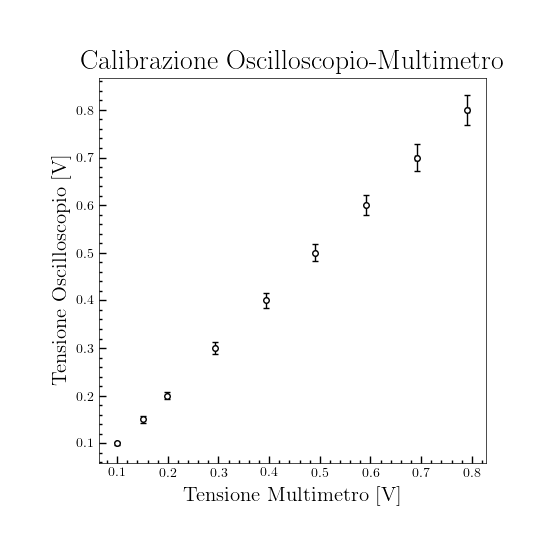
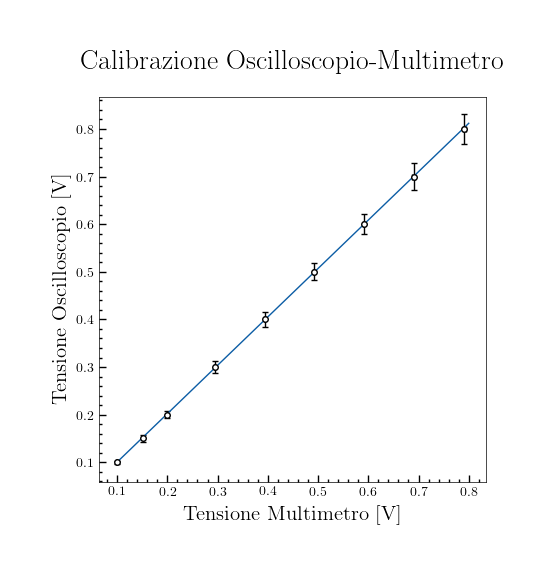
default

diff --git a/prima_prova/germanio/germanio_fit.py b/prima_prova/germanio/germanio_fit.py
@@ -1,38 +1,35 @@
 import numpy
+from scipy.optimize import curve_fit
 from linearfit import linearfit as lf
-from math import exp,sqrt
+from math import exp,sqrt,log
 from matplotlib import pyplot
 from dati import V, e_V, I, e_I
 
-#seaborn.set()
+def my_function(x,a,b):
+    return a*numpy.exp(x/b-1)
 
 for i in range(0,15):
     e_V[i]=sqrt(e_V[i]**2+(0.03*V[i])**2)*1000
     V[i]*=1000
-
+  
 pyplot.style.use('my_style')
-#print(e_V)
 
-pyplot.errorbar(V, I, e_I, e_V, fmt='ok', label = 'dati')
-pyplot.yscale('log')
+pyplot.errorbar(V, I, e_I, e_V, fmt='ok')
+pyplot.yscale('linear')
 pyplot.xlabel('Tensione [mV]')
 pyplot.ylabel('Corrente [mA]')
 pyplot.title('Caratteristica I-V del diodo al Germanio')
+#pyplot.legend()
 
-a,b,da,db=lf(numpy.log(I),V,e_V)
+popt, _ = curve_fit(my_function, V, I, p0=(0,40))
+a, b = popt
 
-print("a = ",a)
-print("da = ",da)
-print("b = ",b)
-print("db = ",db)
+print(a,b)
 
-I0=exp(-a/b)
-print('I0 = ',I0)
-
+vexp=numpy.vectorize(exp)
 x=numpy.linspace(400,710,100)
-pyplot.plot(x,I0*numpy.exp(x/b-1), label = 'fit') 
+pyplot.plot(x,my_function(x,a,b)) 
 
 # Dato che V = -clnI0+clnI abbiamo che V=cln(I/I0), I/I0 = e^(V/c-1)
 
-pyplot.legend()
-pyplot.savefig('grafico_germanio.png')
+pyplot.savefig('germanio.png')

diff --git a/prima_prova/silicio/silicio_fit.py b/prima_prova/silicio/silicio_fit.py
@@ -1,8 +1,12 @@
 import numpy
+from scipy.optimize import curve_fit
 from linearfit import linearfit as lf
 from math import exp,sqrt,log
 from matplotlib import pyplot
 from dati import V, e_V, I, e_I
+
+def my_function(x,a,b):
+    return a*numpy.exp(x/b-1)
 
 for i in range(0,14):
     e_V[i]=sqrt(e_V[i]**2+(0.03*V[i])**2)*1000
@@ -10,26 +14,22 @@ for i in range(0,14):
   
 pyplot.style.use('my_style')
 
-pyplot.errorbar(V, I, e_I, e_V, fmt='ok',label = 'dati')
+pyplot.errorbar(V, I, e_I, e_V, fmt='ok')
 pyplot.yscale('log')
 pyplot.xlabel('Tensione [mV]')
 pyplot.ylabel('Corrente [mA]')
 pyplot.title('Caratteristica I-V del diodo al Silicio')
+#pyplot.legend()
 
-a,b,da,db=lf(numpy.log(I),V,e_V)
+popt, _ = curve_fit(my_function, V, I, p0=(0,40))
+a, b = popt
 
-print("a = ",a)
-print("da = ",da)
-print("b = ",b)
-print("db = ",db)
+print(a,b)
 
-I0=exp(-a/b)
-print('I0 = ',I0)
-
+vexp=numpy.vectorize(exp)
 x=numpy.linspace(50,350,100)
-pyplot.plot(x,I0*numpy.exp(x/b-1),label = 'fit') 
+pyplot.plot(x,my_function(x,a,b)) 
 
 # Dato che V = -clnI0+clnI abbiamo che V=cln(I/I0), I/I0 = e^(V/c-1)
 
-pyplot.legend()
-pyplot.savefig('grafico_silicio.png')
+pyplot.savefig('silicio.png')

diff --git a/prima_prova/germanio/dati.py b/prima_prova/germanio/dati.py
@@ -1,4 +1,6 @@
-V = [0.4, 0.5, 0.54, 0.56, 0.58, 0.59, 0.6, 0.61, 0.62, 0.64, 0.65, 0.66, 0.67, 0.68, 0.7]
-e_V = [0.01, 0.01, 0.01, 0.01, 0.01, 0.01, 0.01, 0.01, 0.01, 0.01, 0.01, 0.01, 0.01, 0.01, 0.01]
-I = [0.01, 0.06, 0.12, 0.2, 0.25, 0.33, 0.42, 0.5, 0.6, 0.92, 1.06, 1.27, 1.55, 1.88, 2.65]
-e_I = [0.0004, 0.0009, 0.003, 0.005, 0.006, 0.006, 0.007, 0.008, 0.009, 0.01, 0.03, 0.03, 0.05, 0.05, 0.06]
+import numpy
+
+V = numpy.array([0.4, 0.5, 0.54, 0.56, 0.58, 0.59, 0.6, 0.61, 0.62, 0.64, 0.65, 0.66, 0.67, 0.68, 0.7])
+e_V = numpy.array([0.01, 0.01, 0.01, 0.01, 0.01, 0.01, 0.01, 0.01, 0.01, 0.01, 0.01, 0.01, 0.01, 0.01, 0.01])
+I = numpy.array([0.01, 0.06, 0.12, 0.2, 0.25, 0.33, 0.42, 0.5, 0.6, 0.92, 1.06, 1.27, 1.55, 1.88, 2.65])
+e_I = numpy.array([0.0004, 0.0009, 0.003, 0.005, 0.006, 0.006, 0.007, 0.008, 0.009, 0.01, 0.03, 0.03, 0.05, 0.05, 0.06])

diff --git a/prima_prova/silicio/dati.py b/prima_prova/silicio/dati.py
@@ -1,4 +1,6 @@
-V = [0.08, 0.1, 0.12, 0.14, 0.16, 0.18, 0.2, 0.24, 0.26, 0.28, 0.29, 0.3, 0.31, 0.32]
-e_V = [0.01, 0.01, 0.01, 0.01, 0.01, 0.01, 0.01, 0.01, 0.01, 0.01, 0.01, 0.01, 0.01, 0.01]
-I = [0.01, 0.02, 0.04, 0.07, 0.1, 0.16, 0.24, 0.53, 0.73, 1.07, 1.26, 1.48, 1.74, 2.03]
-e_I = [0.0004, 0.0005, 0.0007, 0.001, 0.004, 0.005, 0.005, 0.008, 0.01, 0.04, 0.04, 0.04, 0.05, 0.05]
+import numpy
+
+V = numpy.array([0.08, 0.1, 0.12, 0.14, 0.16, 0.18, 0.2, 0.24, 0.26, 0.28, 0.29, 0.3, 0.31, 0.32])
+e_V = numpy.array([0.01, 0.01, 0.01, 0.01, 0.01, 0.01, 0.01, 0.01, 0.01, 0.01, 0.01, 0.01, 0.01, 0.01])
+I = numpy.array([0.01, 0.02, 0.04, 0.07, 0.1, 0.16, 0.24, 0.53, 0.73, 1.07, 1.26, 1.48, 1.74, 2.03])
+e_I = numpy.array([0.0004, 0.0005, 0.0007, 0.001, 0.004, 0.005, 0.005, 0.008, 0.01, 0.04, 0.04, 0.04, 0.05, 0.05])

diff --git a/prima_prova/calibrazione/calibrazione.py b/prima_prova/calibrazione/calibrazione.py
@@ -1,17 +1,25 @@
 import numpy
-import seaborn
 from math import exp,sqrt
 from matplotlib import pyplot
 from dati import V_mul, e_V_mul, V_osc, e_V_osc
+from linearfit import linearfit as lf
 
 pyplot.style.use('my_style')
 
 for i in range(0,9):
     e_V_osc[i] = sqrt(e_V_osc[i]**2+(0.03*V_osc[i])**2)
+    
+a,b,da,db=lf(V_mul,V_osc,e_V_osc)
 
-#print(e_V_osc)
+print("a = ",a)
+print("da = ",da)
+print("b = ",b)
+print("db = ",db)
 
+
+x = numpy.linspace(0.1,0.8,100)
 pyplot.errorbar(V_mul, V_osc, e_V_osc, e_V_mul, fmt='ok')
+pyplot.plot(x,a+b*x)
 pyplot.yscale('linear') 
 pyplot.xlabel('Tensione Multimetro [V]')
 pyplot.ylabel('Tensione Oscilloscopio [V]')

diff --git a/prima_prova/calibrazione/linearfit.py b/prima_prova/calibrazione/linearfit.py
@@ -1,0 +1,27 @@
+# MODULE LINEARFIT
+from math import sqrt
+
+def linearfit(x,y,e_y):
+    S1=0
+    Sx=0
+    Sy=0
+    Sxx=0
+    Sxy=0
+   
+    for i in range(0,9):
+                S1+=1/(e_y[i]**2)
+                Sx+=x[i]/(e_y[i]**2)
+                Sy+=y[i]/(e_y[i]**2)
+                Sxx+=(x[i]**2)/(e_y[i]**2)
+                Sxy+=(x[i]*y[i])/(e_y[i]**2)
+
+    D=S1*Sxx-Sx**2
+
+    a=(Sy*Sxx-Sx*Sxy)/D
+    b=(S1*Sxy-Sx*Sy)/D
+    da=sqrt(Sxx/D)
+    db=sqrt(S1/D)
+
+    return a,b,da,db
+    
+

diff --git a/prima_prova/germanio/linearfit.py b/prima_prova/germanio/linearfit.py
@@ -1,0 +1,27 @@
+# MODULE LINEARFIT
+from math import sqrt
+
+def linearfit(x,y,e_x):
+    S1=0
+    Sx=0
+    Sy=0
+    Sxx=0
+    Sxy=0
+   
+    for i in range(0,15):
+        S1+=1/(e_x[i]**2)
+        Sx+=x[i]/(e_x[i]**2)
+        Sy+=y[i]/(e_x[i]**2)
+        Sxx+=(x[i]**2)/(e_x[i]**2)
+        Sxy+=(x[i]*y[i])/(e_x[i]**2)
+
+    D=S1*Sxx-Sx**2
+
+    a=(Sy*Sxx-Sx*Sxy)/D
+    b=(S1*Sxy-Sx*Sy)/D
+    da=sqrt(Sxx/D)
+    db=sqrt(S1/D)
+
+    return a,b,da,db
+    
+

diff --git a/prima_prova/silicio/linearfit.py b/prima_prova/silicio/linearfit.py
@@ -1,0 +1,27 @@
+# MODULE LINEARFIT
+from math import sqrt
+
+def linearfit(x,y,e_y):
+    S1=0
+    Sx=0
+    Sy=0
+    Sxx=0
+    Sxy=0
+   
+    for i in range(0,14):
+        S1+=1/(e_y[i]**2)
+        Sx+=x[i]/(e_y[i]**2)
+        Sy+=y[i]/(e_y[i]**2)
+        Sxx+=(x[i]**2)/(e_y[i]**2)
+        Sxy+=(x[i]*y[i])/(e_y[i]**2)
+
+    D=S1*Sxx-Sx**2
+
+    a=(Sy*Sxx-Sx*Sxy)/D
+    b=(S1*Sxy-Sx*Sy)/D
+    da=sqrt(Sxx/D)
+    db=sqrt(S1/D)
+
+    return a,b,da,db
+    
+

diff --git a/prima_prova/silicio/linearfit.cpp b/prima_prova/silicio/linearfit.cpp
@@ -1,0 +1,2 @@
+#include<iostream>
+#include<cmath>
